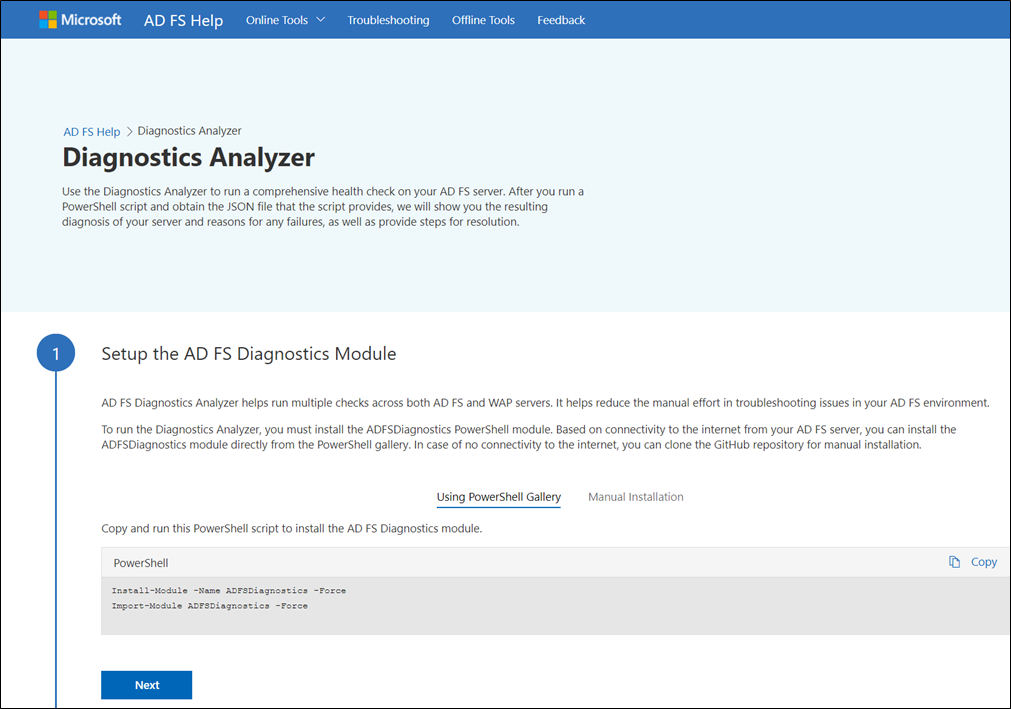
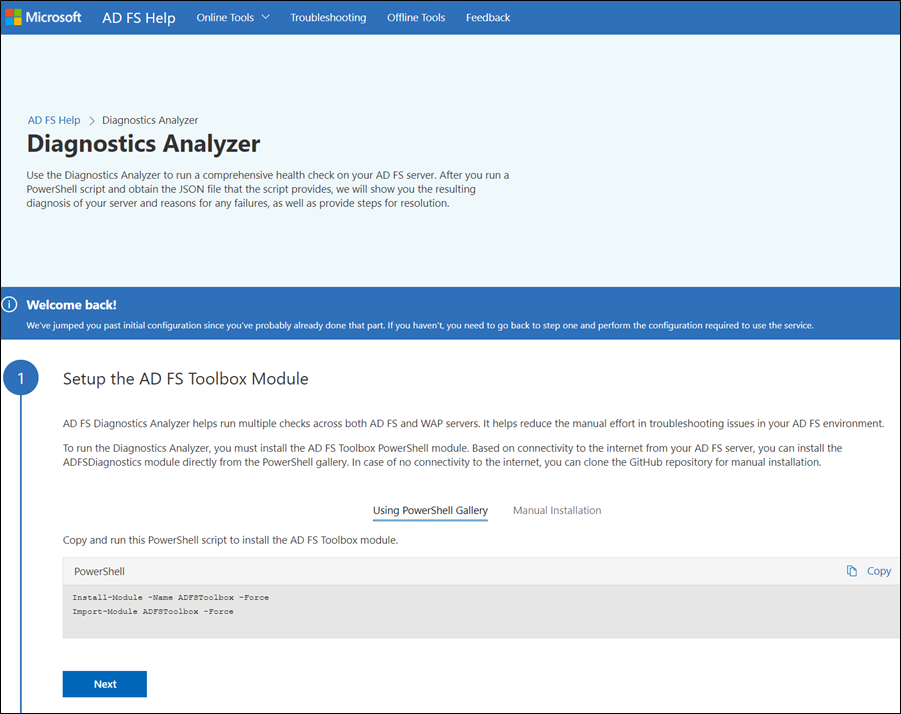
Updating

diff --git a/WindowsServerDocs/identity/ad-fs/troubleshooting/ad-fs-diagnostics-analyzer.md b/WindowsServerDocs/identity/ad-fs/troubleshooting/ad-fs-diagnostics-analyzer.md
@@ -13,11 +13,11 @@ ms.technology: identity-adfs
 
 # AD FS Help Diagnostics Analyzer
 
-AD FS has numerous settings that support the wide variety of functionality it provides for authentication and application development. During troubleshooting, it is recommended to ensure that all of the AD FS settings are correctly configured. Doing a manual check of these settings can sometimes be time consuming. AD FS Help Diagnostics Analyzer can help perform the basic checks using AD FS diagnostics PowerShell module. After performing the checks, AD FS Help provides the [Diagnostics Analyzer](https://aka.ms/adfsdiagnosticsanalyzer) to help you easily visualize the results and offer remediation steps.
+AD FS has numerous settings that support the wide variety of functionality it provides for authentication and application development. During troubleshooting, it is recommended to ensure that all of the AD FS settings are correctly configured. Doing a manual check of these settings can sometimes be time consuming. AD FS Help Diagnostics Analyzer can help perform the basic checks using the ADFSToolbox PowerShell module. After performing the checks, AD FS Help provides the [Diagnostics Analyzer](https://aka.ms/adfsdiagnosticsanalyzer) to help you easily visualize the results and offer remediation steps.
 
 The complete operation takes 3 simple steps:
 
-1. Setup the diagnostics module on the primary AD FS server or WAP server
+1. Setup the ADFSToolbox module on the primary AD FS server or WAP server
 2. Execute the diagnostics and upload the file to AD FS Help
 3. View diagnostics analysis and resolve any issues
 
@@ -25,30 +25,31 @@ Go to [AD FS Help Diagnostics Analyzer (https://aka.ms/adfsdiagnosticsanalyzer)]
 
 ![AD FS diagnostics analyzer tool on AD FS Help](media/ad-fs-diagonostics-analyzer/home.png)
 
-## Step 1: Setup the diagnostics module on AD FS server
+## Step 1: Setup the ADFSToolbox module on AD FS server
 
-To run the [Diagnostics Analyzer](https://aka.ms/adfsdiagnosticsanalyzer), you must install the ADFSDiagnostics PowerShell module. If the AD FS server has connectivity to the internet, you can install the ADFSDiagnostics module directly from the PowerShell gallery. In case of no connectivity to the internet, clone the GitHub repository for manual installation. 
+To run the [Diagnostics Analyzer](https://aka.ms/adfsdiagnosticsanalyzer), you must install the ADFSToolbox PowerShell module. If the AD FS server has connectivity to the internet, you can install the ADFSToolbox module directly from the PowerShell gallery. In case of no connectivity to the internet, clone the GitHub repository for manual installation. 
 
 ![AD FS diagnostics analyzer - setup](media/ad-fs-diagonostics-analyzer/step1.png)
 
 ### Setup using PowerShell gallery
 
-If the AD FS server has internet connectivity, it is recommended to install the diagnostics module directly from the PowerShell gallery using the PowerShell commands given below.
+If the AD FS server has internet connectivity, it is recommended to install the ADFSToolbox module directly from the PowerShell gallery using the PowerShell commands given below.
  
    ```powershell 
-    Install-Module -Name ADFSDiagnostics -force
-    Import-Module ADFSDiagnostics -force
+    Install-Module -Name ADFSToolbox -force
+    Import-Module ADFSToolbox -force
    ```
 ### Setup manually by cloning the repository
 
-The diagnostics module can be installed manually from GitHub directly. Follow the instructions below for cloning the repository and installing the diagnostics module on the AD FS server.
+The ADFSToolbox module can be installed manually from GitHub directly. Follow the instructions below for cloning the repository and installing the ADFSToolbox module on the AD FS server.
 
-1. Download the [repository](https://github.com/Microsoft/adfsManagementTools/zipball/master)
-2. Unzip the download and copy ADFSDiagnostics folder to C:\Program Files\WindowsPowerShell\Modules\
-3. Import the PowerShell Module
-4. In an elevated PowerShell window, run the following:
+1. Download the [repository](https://github.com/Microsoft/adfsToolbox/archive/master.zip)
+2. Unzip the downloaded file and copy the adfsToolbox-master folder to %SYSTEMDRIVE%\\Program Files\\WindowsPowerShell\\Modules\\.
+3. Import the PowerShell Module. In an elevated PowerShell window, run the following:
  
-    Import-Module ADFSDiagnostics
+   ```powershell 
+    Import-Module ADFSToolbox -Force
+   ```
 
 ## Step 2: Execute the diagnostics and upload the file to AD FS Help
 
